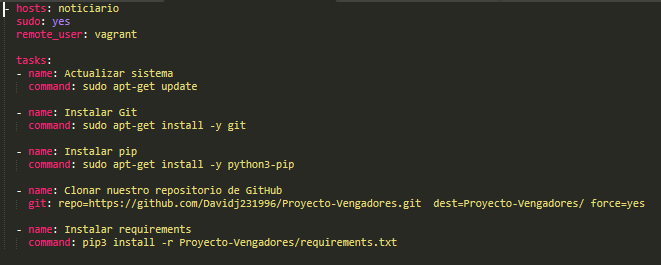
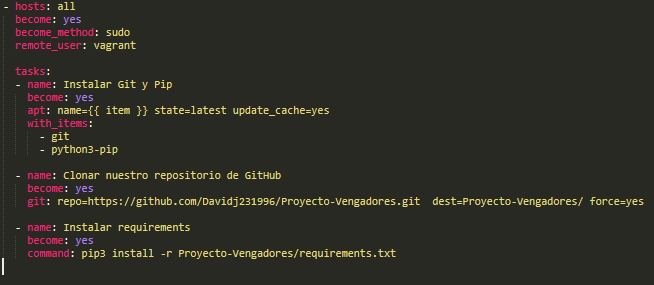
Closes #31

Changed region(s): [[0.0, 0.2113, 1.0, 0.966], [0.0, 0.0, 0.2446, 0.1811], [0.5199, 0.0, 1.0, 0.0302]]

diff --git a/docs/azure.md b/docs/azure.md
@@ -23,15 +23,19 @@ El script de ansible creado es el siguiente:
 
 Para ejecutar el script fuera del Vagrantfile se usa la orden `ansible-playbook playbook.yml`.
 
-Las primeras tres líneas del archivo son para la conexión a la máquina virtual. `hosts` nos indica el nombre del host al que conectar, en nuestro caso, lo que hemos añadido al archivo `/etc/ansible/hosts`; `sudo: yes` es para indicar que vamos a ejecutar las ordenes como sudo; y `remote_user`es el usuario con el que nos conectamos al host.
+Las primeras 4 líneas del archivo son para la conexión a la máquina virtual. `hosts` nos indica el nombre del host al que conectar, en nuestro caso, está puesto como `all` por si tenemos varios hosts en el archivo `/etc/ansible/hosts`; `become: yes` y `become_method: sudo` es para indicar que al invicor `become` en un task, significa que vamos a ejecutar las ordenes como sudo; y `remote_user`es el usuario con el que nos conectamos al host.
 
 El resto del archivo son los tasks o acciones que se hacen una vez conectados a la máquina virtual. En nuestro caso:
 
-- Actualizar el sistema.
-- Instalar Git.
-- Instalar Pip.
+- Instalar Git y Pip.
 - Clonar el repositorio Github.
 - Instalar requeriments.txt.
+
+Para la instalación de `Git` y `Pip`, se puede observar como se ha usado el módulo `apt` y no `command` como en el resto. El módulo `apt` de ansible, es como si ejecutaramos `apt-get con el módulo command`. Los parametros que se le añaden son:
+
+- Name: el nombre de lo que queremos instalar. En nuestro caso, `Git` y `Pip`.
+- State: el nivel de instalación. En nuestro caso, `latest`, que significa la última versión.
+- update_cache: para realizar un `apt-get update`antes de realizar la instalación. En nuestro caso, `yes`.
 
 ## 2. Creación de la máquina virtual y despliegue
 
@@ -55,10 +59,12 @@ Una vez realizado estos pasos, ya podemos crear nuestro Vagrantfile:
 
 ![Vagrantfile](https://github.com/Davidj231996/Proyecto-Vengadores/blob/master/docs/Imagenes/vagrant.PNG)
 
-En el archivo indicamos que vamos a usar azure con `config.vm.box`. Le indicamos donde va a estar las claves ssh con `config.ssh.private_key_path`. Le indicamos que con el proveedor azure vamos a realizar lo siguiente:
+En el archivo indicamos que el nombre de la máquina virtual es azure con `config.vm.box`. Le indicamos donde va a estar las claves ssh con `config.ssh.private_key_path`. Con `config.vm.network "private_network", guest: 80, host: 80`, indicamos que vamos a usar una red privada usando el puerto 80, elegimos una red privada para evitar el acceso a nuestra máquina virtual desde internet. Con `config.vm.box_url`, indicamos que hemos usado el `dummy.box` de la url siguiente.Con `config.vm.synced_folder '.', '/vagrant', :disabled => true`, indicamos que no queremos que se realice la copia al levantar la máquina virtual.
+
+Le indicamos que con el proveedor azure vamos a realizar lo siguiente:
 
 - Le indicamos las claves de Azure previamente obtenidas.
-- Le indicamos el nombre de la máquina virtual, su tamaño y su puerto.
+- Le indicamos el nombre de la máquina virtual, su tamaño, su puerto para tcp, su localización, el urn del SO de Azure que usaremos y el grupo de recursos.
 
 Por último, le indicamos que hacer cuando indicamos la orden provision:
 
@@ -72,10 +78,11 @@ Para el despliegue es necesario crear un archivo fabfile.py, que nos permitirá 
 El archivo fabfile.py es el siguiente:
 
 ![Fabfile](https://github.com/Davidj231996/Proyecto-Vengadores/blob/master/docs/Imagenes/fabfile.PNG)
-![Fabfile](https://github.com/Davidj231996/Proyecto-Vengadores/blob/master/docs/Imagenes/fabfile2.PNG)
 
-En este archivo establecemos los tasks a realizar con `@task` y una función con el parámetro `ctx` como nos indica que tenemos que hacer en el tutorial de Fabric.
+En este archivo establecemos los tasks a realizar con `@task` y una función con el parámetro `ctx` que hace referencia al Proxy de Contexto.
 
 En las funciones, primero conectamos usando `Connection`, le indicamos el host y el usuario. Una vez ya conectados, ejecutamos las órdenes necesarias en cada función.
 
-Para ejecutar el archivo desde fuera de la máquina virtual usamos la siguiente orden `fab -f fabfile.py -H vagrant@noticiarioiv1819.westus.cloudapp.azure.com <nombrefuncio>`.
+Para ejecutar el archivo desde fuera de la máquina virtual usamos la siguiente orden `fab -r ./despliegue/ -f fabfile.py -H vagrant@noticiarioiv1819.westus.cloudapp.azure.com <nombrefuncio>`.
+
+La opción `-r` cambia el directorio de trabajo al indicado. La opción `-f` indica el archivo de configuración a usar. La opción `-H` indica que vamos a realizar una conexión ssh con usuario@host. Y por último, la función a ejecutar.
